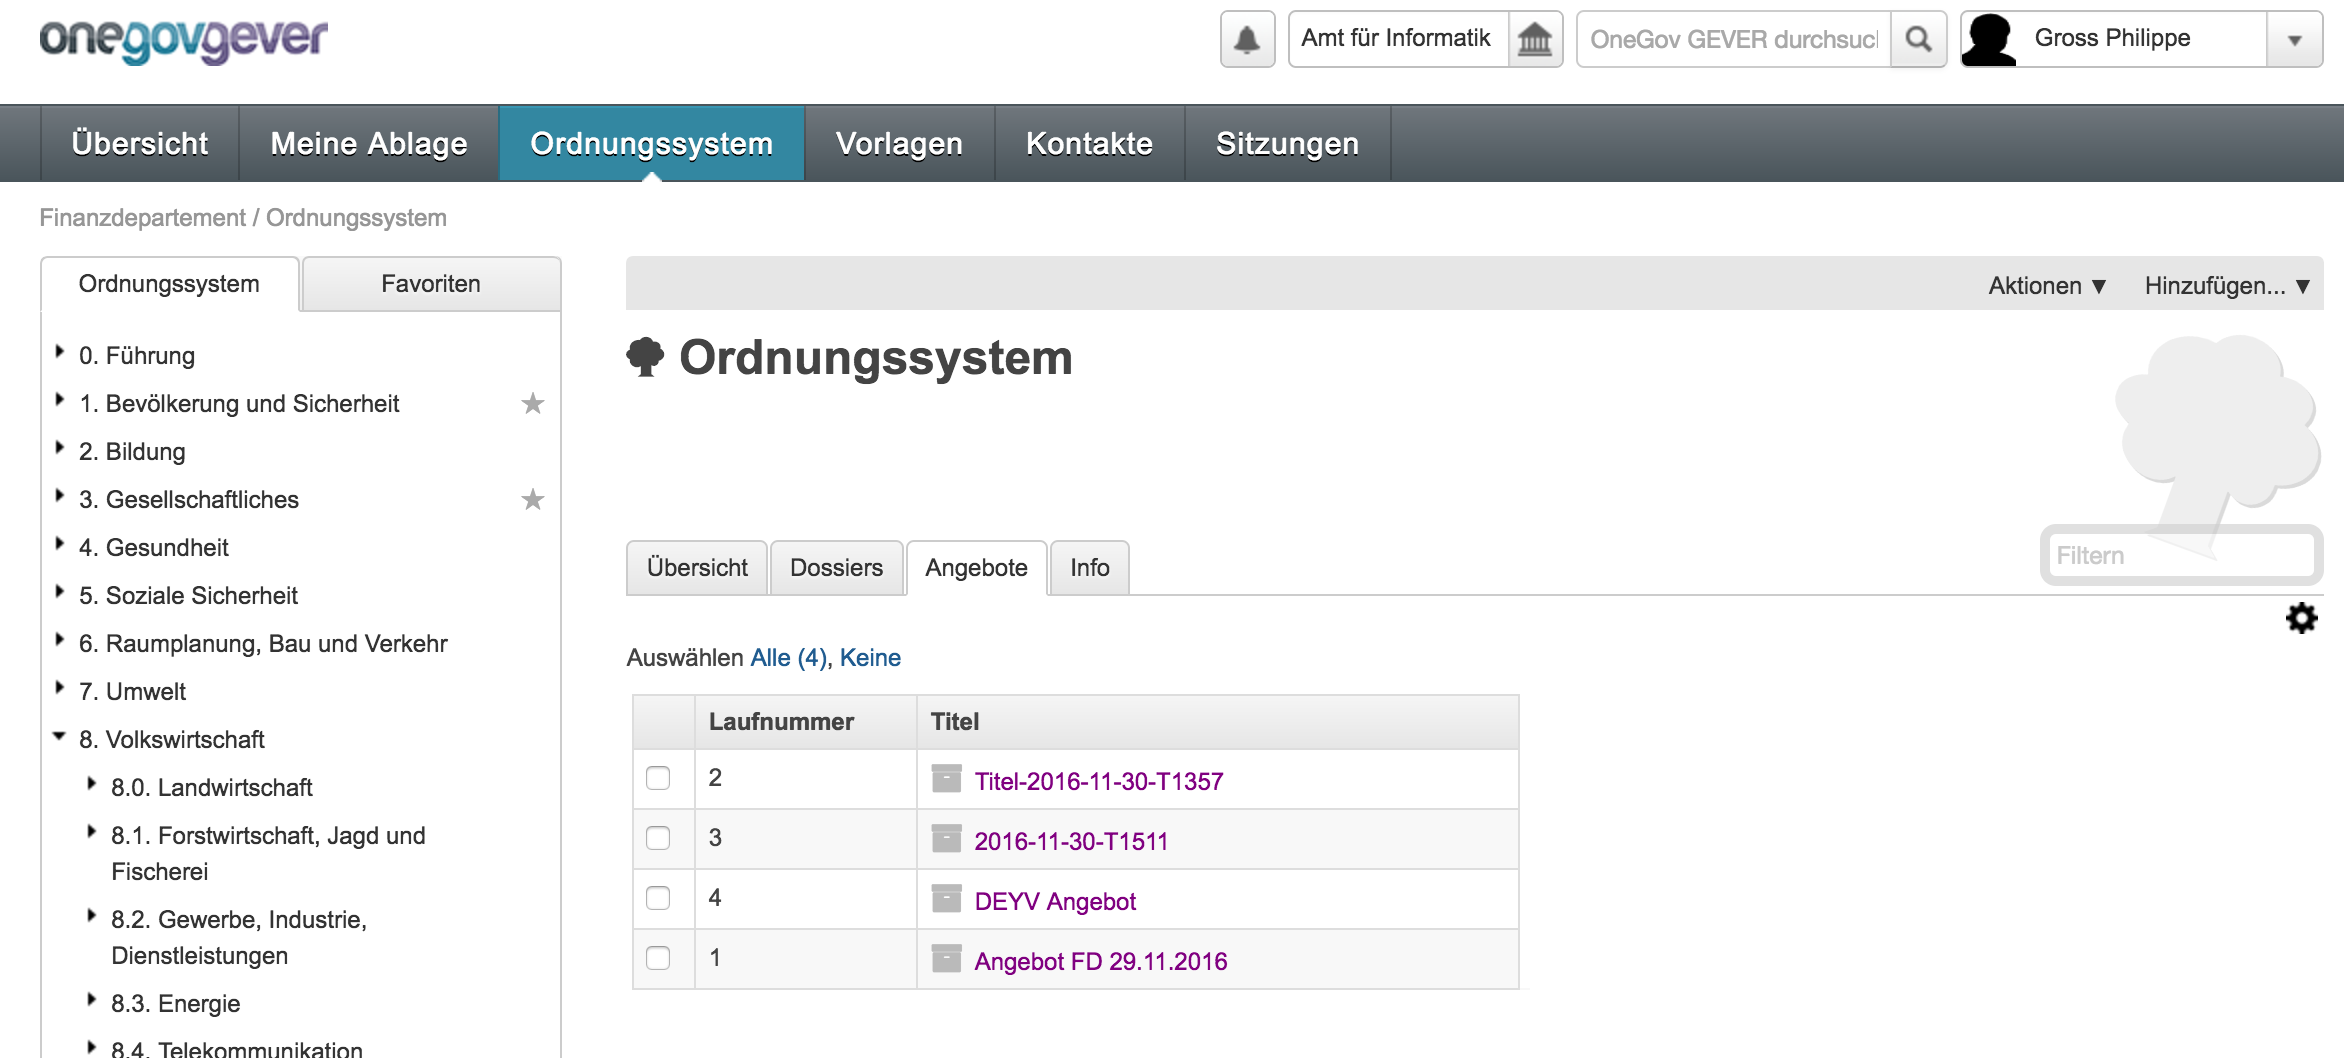
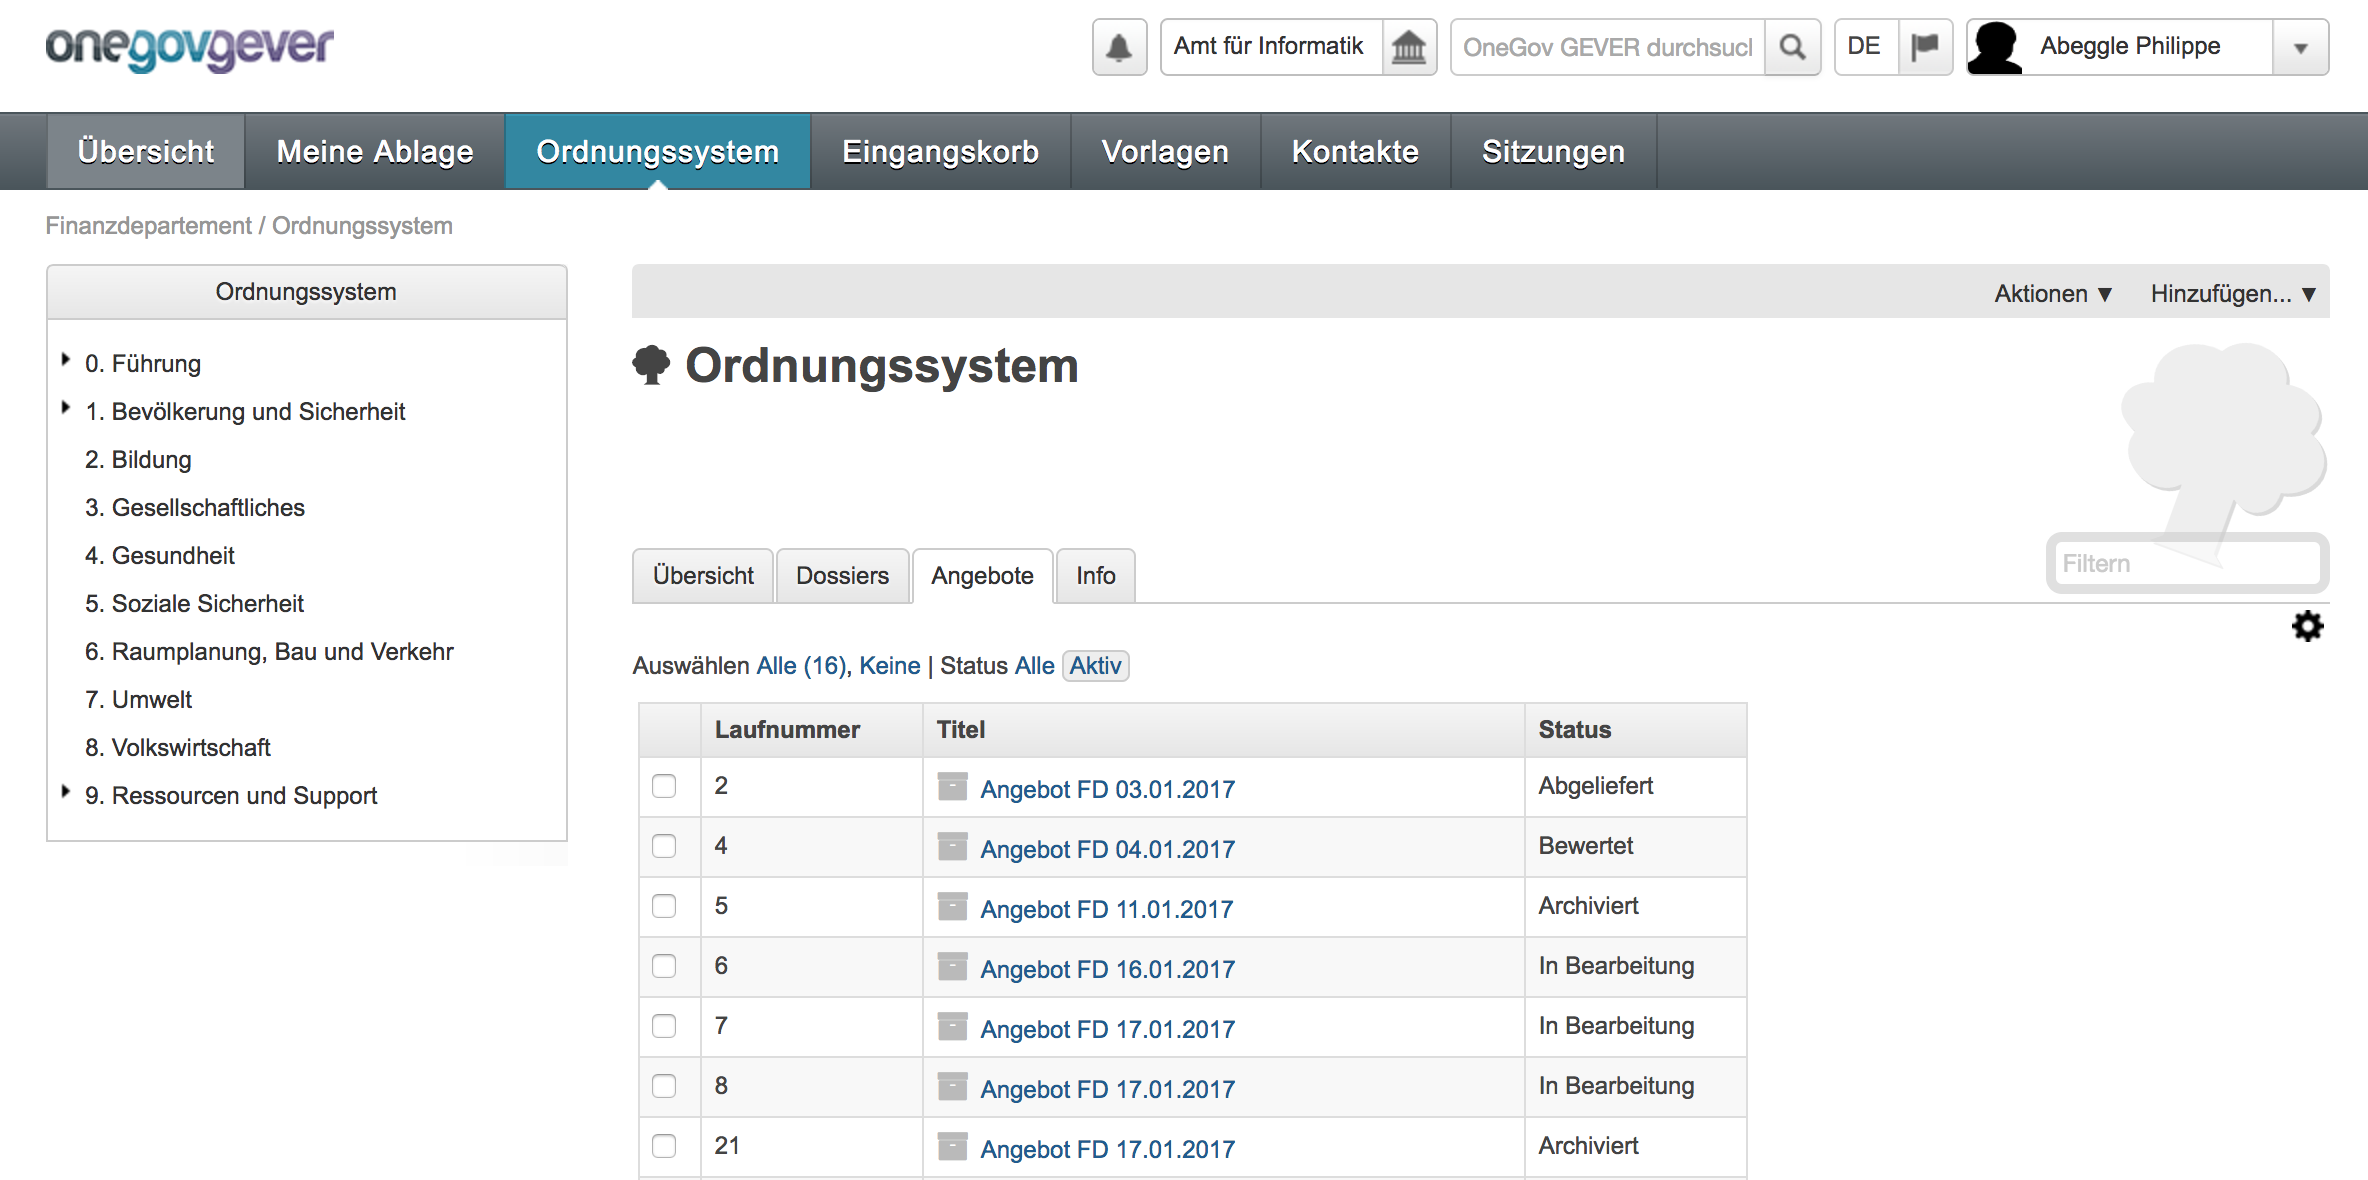
Update documentation.

diff --git a/docs/public/admin-manual/aussonderung.rst b/docs/public/admin-manual/aussonderung.rst
@@ -128,7 +128,7 @@ Auflistung
 ----------
 Auf Stufe Ordnungssytem steht für Benutzer mit den Rollen `Records Manager`
 oder `Archivist` ein zusätzlicher Reiter `Angebote` zur Verfügung, welcher alle
-Angebote dieses Ordnungssystems auflistet.
+Angebote dieses Ordnungssystems auflistet. Dabei werden standardmässig nur aktive Angebote aufgelistet, mittels dem Statusfilter `Alle` können aber auch abgeschlossene Angebote angezeigt werden.
 
 |img-aussonderung-4|
 
